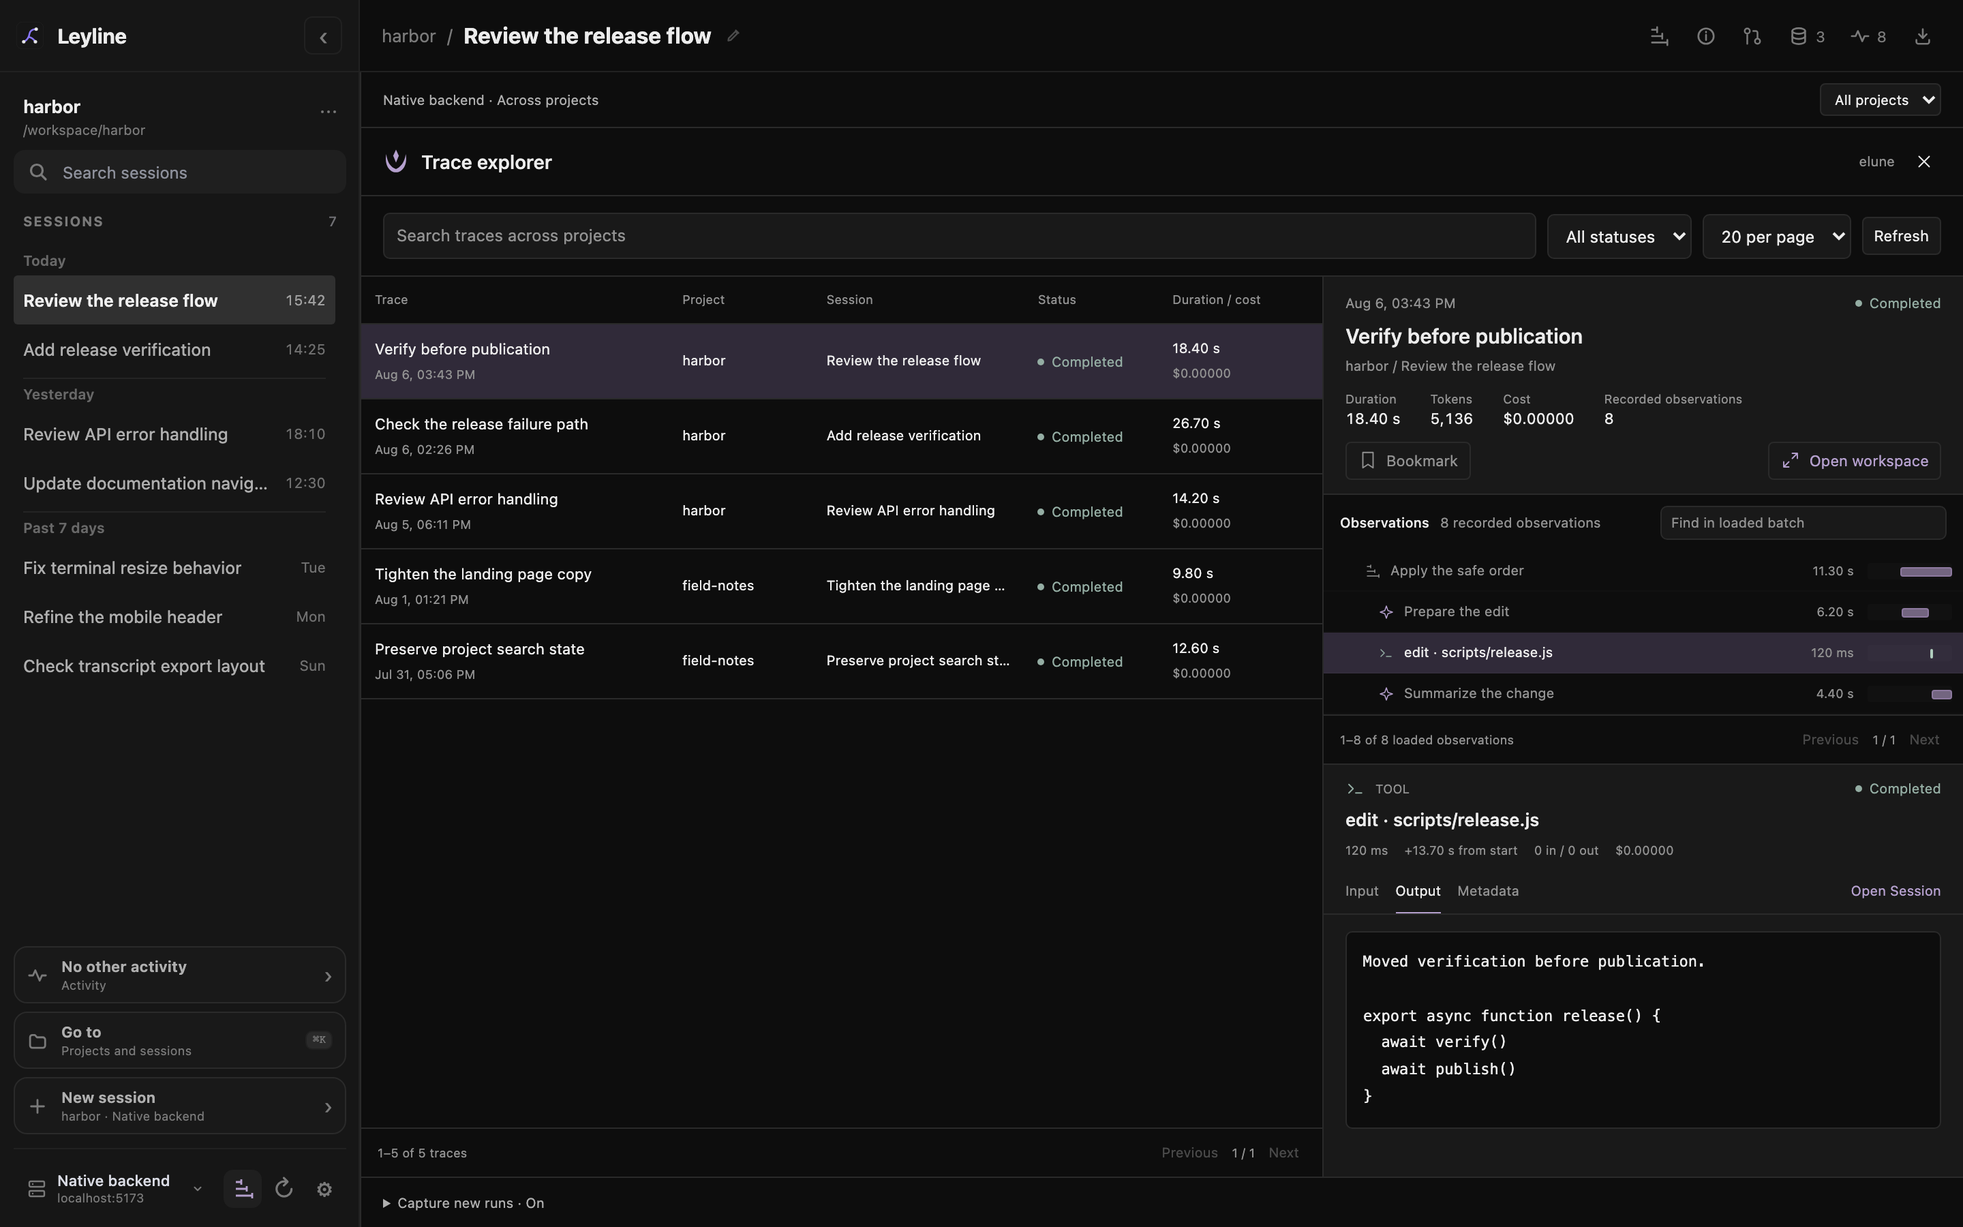
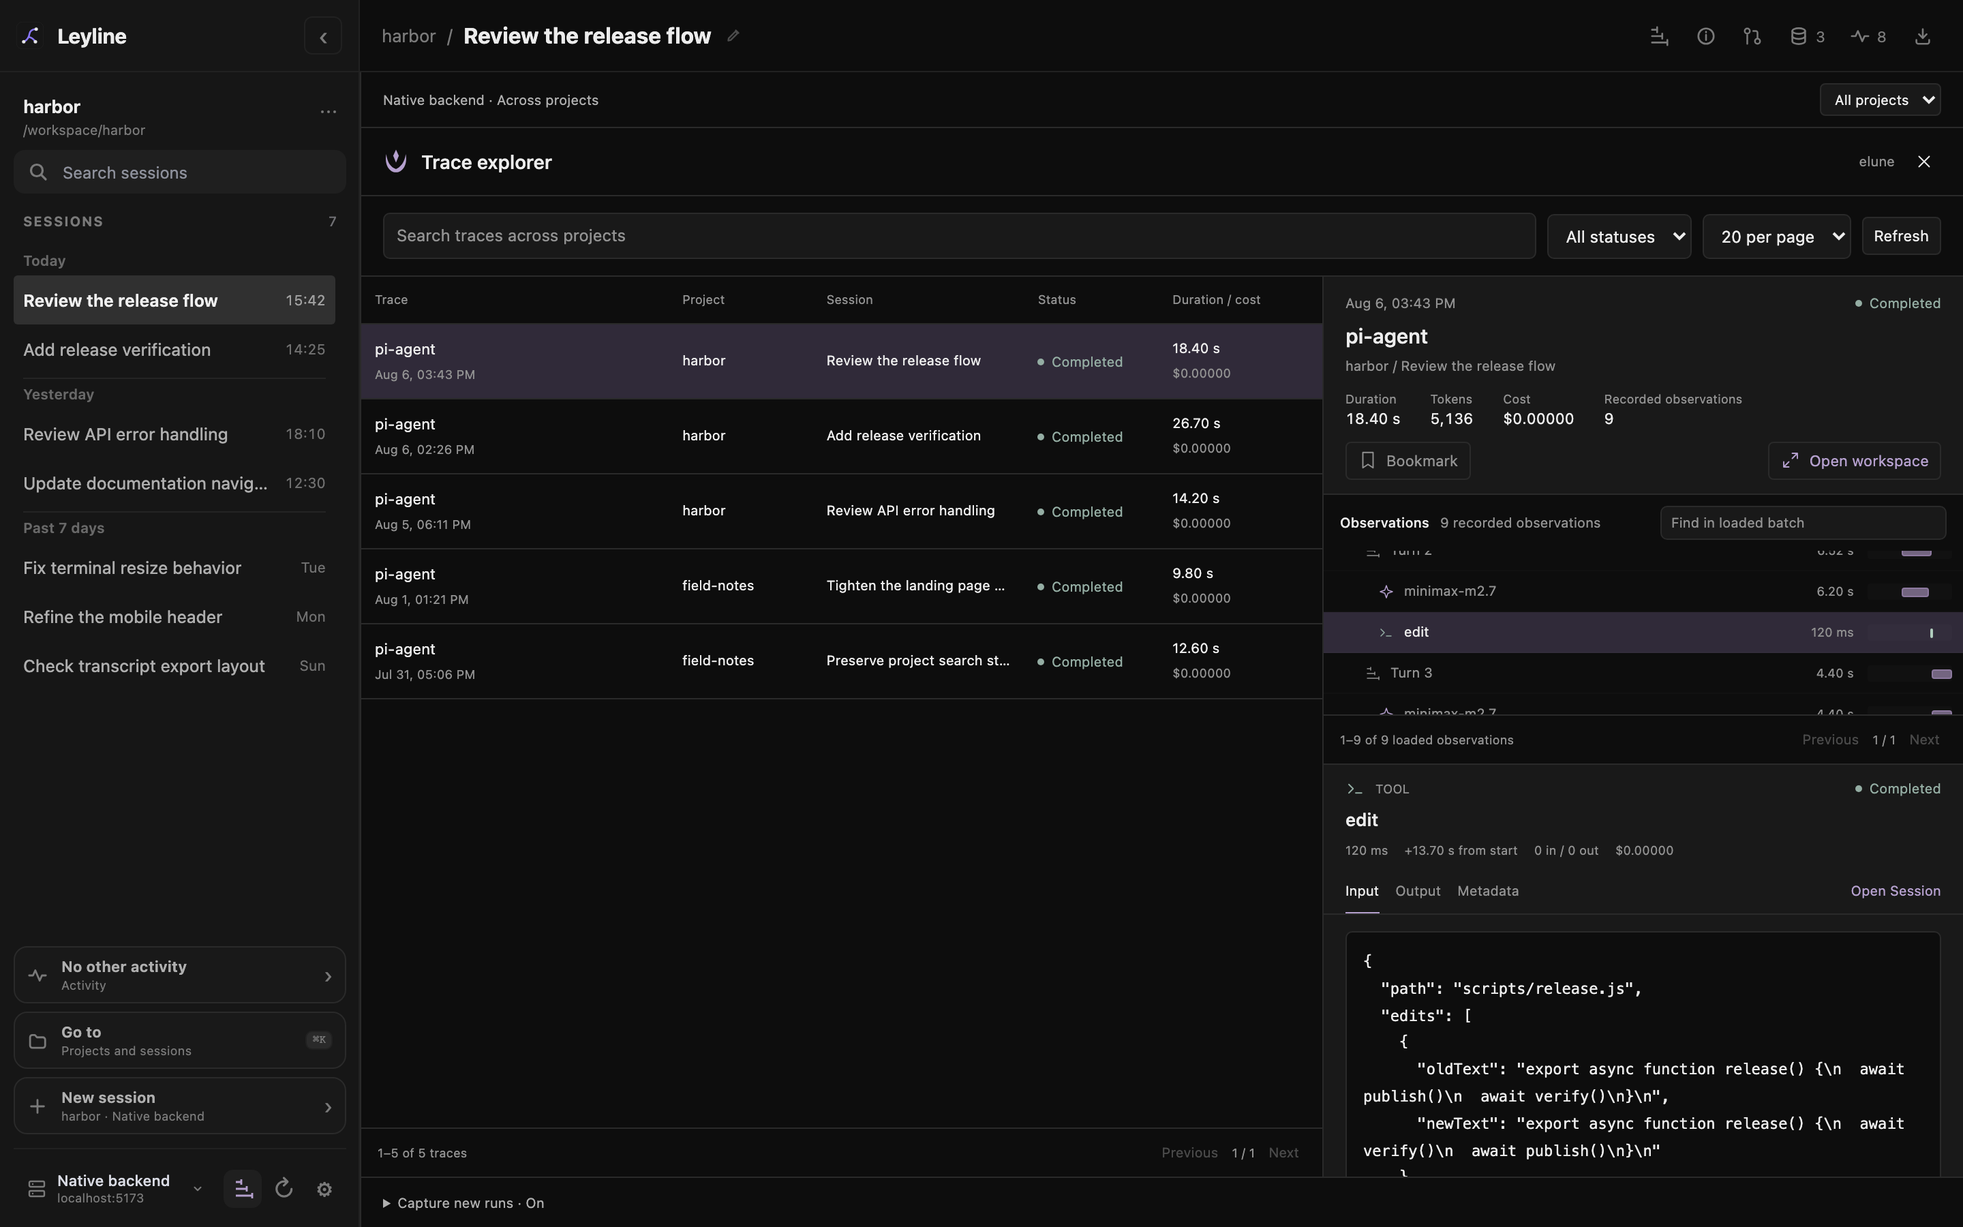
fix: align trace screenshots with elune

diff --git a/scripts/fixtures/docs-traces.js b/scripts/fixtures/docs-traces.js
@@ -1,10 +1,14 @@
+import fs from 'node:fs/promises'
+import os from 'node:os'
+import path from 'node:path'
+import { createReadTool, createEditTool } from '@earendil-works/pi-coding-agent'
+import { createElune } from '@elune/embedded'
+import { createPiTracingExtension } from '@elune/embedded/pi'
+
 export const docsTraceTimeline = {
   timestamp: '2026-08-06T15:43:00.000Z',
-  agent: { startTime: 0, duration: 18.4 },
-  turn1: { startTime: 0, duration: 7.1 },
   model1: { startTime: 0.2, duration: 5.6 },
   read: { startTime: 5.9, duration: 0.18 },
-  turn2: { startTime: 7.1, duration: 11.3 },
   model2: { startTime: 7.3, duration: 6.2 },
   edit: { startTime: 13.7, duration: 0.12 },
   model3: { startTime: 14, duration: 4.4 },
@@ -15,58 +19,146 @@ export function docsTraceEntryTimestamp(key) {
   return new Date(Date.parse(docsTraceTimeline.timestamp) + Math.round((startTime + duration) * 1000)).toISOString()
 }
 
-export function docsTraces(entries, sessions) {
-  const summary = sessions[0]
-  const metadata = {
-    cwd: summary.cwd,
-    sessionName: summary.name,
-    sessionFile: summary.path,
-    userEntryId: 'user-1',
-    startEntryId: 'user-1',
-    endEntryId: 'assistant-2',
-  }
-  const observation = (id, parentId, name, type, timing, input, output, extra = {}) => ({
-    id, parentId, name, type, ...timing, input, output,
-    status: 'completed', level: 'DEFAULT', model: '', inputTokens: 0, outputTokens: 0, cost: 0,
-    metadata: {}, ...extra,
-  })
-  const generation = (id, parentId, name, timing, entry, inputTokens, outputTokens) => observation(
-    id, parentId, name, 'GENERATION', timing, entries[0].text, entry.text,
-    { model: 'local/minimax-m2.7', inputTokens, outputTokens, metadata: { messageEntryId: entry.id, usageKnown: true } },
-  )
-  const observations = [
-    observation('release-agent', null, 'Review the release flow', 'AGENT', docsTraceTimeline.agent, entries[0].text, entries[4].text),
-    observation('release-turn-1', 'release-agent', 'Inspect release order', 'SPAN', docsTraceTimeline.turn1, '', ''),
-    generation('release-model-1', 'release-turn-1', 'Plan the release change', docsTraceTimeline.model1, entries[1], 1240, 184),
-    observation('release-read', 'release-turn-1', 'read · scripts/release.js', 'TOOL', docsTraceTimeline.read, { path: 'scripts/release.js' }, entries[2].text, { metadata: { toolResultEntryId: 'tool-read' } }),
-    observation('release-turn-2', 'release-agent', 'Apply the safe order', 'SPAN', docsTraceTimeline.turn2, '', ''),
-    observation('release-model-2', 'release-turn-2', 'Prepare the edit', 'GENERATION', docsTraceTimeline.model2, entries[2].text, 'Move verify() before publish(), preserving the existing failure path.', { model: 'local/minimax-m2.7', inputTokens: 1612, outputTokens: 142 }),
-    observation('release-edit', 'release-turn-2', 'edit · scripts/release.js', 'TOOL', docsTraceTimeline.edit, { path: 'scripts/release.js', oldText: entries[3].preview.oldText, newText: entries[3].preview.newText }, entries[3].text + '\n\n' + entries[3].preview.newText, { metadata: { toolResultEntryId: 'tool-edit' } }),
-    generation('release-model-3', 'release-turn-2', 'Summarize the change', docsTraceTimeline.model3, entries[4], 1860, 98),
-  ]
-  const primary = {
-    id: 'trace-release-order', sessionId: summary.id, name: 'Verify before publication',
-    timestamp: docsTraceTimeline.timestamp, revision: 12,
-    status: 'completed', level: 'DEFAULT', latency: docsTraceTimeline.agent.duration, inputTokens: 4712, outputTokens: 424,
-    totalTokens: 5136, cost: 0, bookmarked: false, metadata,
-    input: entries[0].text, output: entries[4].text, observations, scores: [],
-  }
-  const additional = [
-    ['trace-release-checks', 'release-checks', 'Check the release failure path', 26.7, 6840],
-    ['trace-api-review', 'api-review', 'Review API error handling', 14.2, 4120],
-    ['trace-landing-copy', 'landing-copy', 'Tighten the landing page copy', 9.8, 2734],
-    ['trace-search-state', 'search-state', 'Preserve project search state', 12.6, 3620],
-  ].map(([id, sessionId, name, latency, totalTokens]) => {
-    const session = sessions.find(item => item.id === sessionId)
-    return {
-      ...primary, id, sessionId, name, latency, totalTokens, revision: 6,
-      timestamp: new Date(Date.parse(session.timestamp) + 60000).toISOString(),
-      inputTokens: Math.floor(totalTokens * 0.85), outputTokens: totalTokens - Math.floor(totalTokens * 0.85),
-      metadata: { cwd: session.cwd, sessionName: session.name, sessionFile: session.path },
-      input: session.name, output: 'Completed the requested focused change.', observations: [],
+export async function docsTraces(entries, sessions) {
+  const directory = await fs.mkdtemp(path.join(os.tmpdir(), 'leyline-docs-traces-'))
+  const store = createElune({ databasePath: path.join(directory, 'elune.db') })
+  const NativeDate = Date
+  let now = Date.parse(docsTraceTimeline.timestamp)
+  class FixtureDate extends NativeDate {
+    constructor(...args) {
+      super(...(args.length ? args : [now]))
     }
-  })
-  return [primary, ...additional]
+    static now() { return now }
+  }
+  const tools = [createReadTool(directory), createEditTool(directory)]
+
+  async function captureRun(session, timestamp, prompt, turns) {
+    const start = NativeDate.parse(timestamp)
+    const branch = [{ id: 'user-1', parentId: null, type: 'message', message: { role: 'user', content: prompt } }]
+    const sessionManager = {
+      getSessionId: () => session.id,
+      getCwd: () => session.cwd,
+      getSessionName: () => session.name,
+      getSessionFile: () => session.path,
+      getLeafId: () => branch.at(-1).id,
+      getEntry: id => branch.find(entry => entry.id === id),
+    }
+    const ctx = { sessionManager, cwd: session.cwd }
+    const handlers = new Map()
+    const capture = createPiTracingExtension({ getStore: () => store })
+    capture({ on: (name, handler) => { handlers.set(name, handler) } })
+    const emit = (type, event = {}) => handlers.get(type)({ type, ...event }, ctx)
+    const at = (timing, end = false) => { now = start + Math.round((timing.startTime + (end ? timing.duration : 0)) * 1000) }
+    const append = (id, message) => branch.push({ id, parentId: branch.at(-1).id, type: 'message', message })
+    const messages = [
+      { role: 'system', content: 'You are a coding assistant. Make focused changes and report the result.' },
+      { role: 'user', content: prompt },
+    ]
+    try {
+      now = start
+      emit('before_agent_start', { prompt })
+      emit('agent_start')
+      const traceId = capture.getActiveTraceId()
+      for (const [turnIndex, turn] of turns.entries()) {
+        at(turn.timing)
+        emit('turn_start', { turnIndex, timestamp: now })
+        emit('context', { messages })
+        capture.observe({ type: 'provider_request', provider: 'local', api: 'openai-completions', model: 'minimax-m2.7' }, ctx)
+        emit('before_provider_request', { payload: {
+          model: 'minimax-m2.7', messages,
+          tools: tools.map(tool => ({ type: 'function', function: { name: tool.name, description: tool.description, parameters: tool.parameters } })),
+        } })
+        const toolCallId = `call-${turnIndex + 1}`
+        const content = [
+          ...(turn.thinking ? [{ type: 'thinking', thinking: turn.thinking }] : []),
+          ...(turn.text ? [{ type: 'text', text: turn.text }] : []),
+          ...(turn.tool ? [{ type: 'toolCall', id: toolCallId, name: turn.tool.name, arguments: turn.tool.args }] : []),
+        ]
+        at(turn.timing, true)
+        const message = {
+          role: 'assistant', content, provider: 'local', api: 'openai-completions', model: 'minimax-m2.7',
+          stopReason: turn.tool ? 'toolUse' : 'stop', timestamp: now,
+          usage: {
+            input: turn.inputTokens, output: turn.outputTokens, cacheRead: turn.cacheRead || 0, cacheWrite: 0,
+            totalTokens: turn.inputTokens + turn.outputTokens + (turn.cacheRead || 0),
+            cost: { input: 0, output: 0, cacheRead: 0, cacheWrite: 0, total: 0 },
+          },
+        }
+        append(turn.entryId, message)
+        emit('message_end', { message })
+        const toolResults = []
+        const toolResultEntryIds = []
+        messages.push({
+          role: 'assistant', content: turn.text || null,
+          ...(turn.tool ? { tool_calls: [{ id: toolCallId, type: 'function', function: { name: turn.tool.name, arguments: JSON.stringify(turn.tool.args) } }] } : {}),
+        })
+        if (turn.tool) {
+          at(turn.tool.timing)
+          emit('tool_execution_start', { toolCallId, toolName: turn.tool.name, args: turn.tool.args })
+          const result = await tools.find(tool => tool.name === turn.tool.name).execute(toolCallId, turn.tool.args)
+          at(turn.tool.timing, true)
+          emit('tool_execution_end', { toolCallId, toolName: turn.tool.name, result, isError: false })
+          const toolResult = { role: 'toolResult', toolCallId, toolName: turn.tool.name, ...result, isError: false, timestamp: now }
+          append(turn.tool.entryId, toolResult)
+          emit('message_end', { message: toolResult })
+          toolResults.push(toolResult)
+          toolResultEntryIds.push(turn.tool.entryId)
+          messages.push({ role: 'tool', tool_call_id: toolCallId, content: result.content.map(block => block.text || '').join('\n') })
+        }
+        emit('turn_end', { turnIndex, message, messageEntryId: turn.entryId, toolResults, toolResultEntryIds, outcome: 'completed' })
+      }
+      emit('agent_before_settle', { outcome: 'completed' })
+      emit('agent_settled')
+      await capture.flush()
+      const trace = await store.get(traceId, { observationLimit: 200, scoreLimit: 200 })
+      const ids = new Map(trace.observations.map((item, index) => [item.id, `${session.id}-observation-${index + 1}`]))
+      return {
+        ...trace, id: `trace-${session.id}`,
+        observations: trace.observations.map(item => ({ ...item, id: ids.get(item.id), parentId: ids.get(item.parentId) || null })),
+      }
+    } finally {
+      await capture.close()
+    }
+  }
+
+  try {
+    await fs.mkdir(path.join(directory, 'scripts'))
+    await fs.writeFile(path.join(directory, 'scripts/release.js'), entries[3].preview.oldText)
+    globalThis.Date = FixtureDate
+    const primary = await captureRun(sessions[0], docsTraceTimeline.timestamp, entries[0].text, [
+      {
+        entryId: entries[1].id, timing: docsTraceTimeline.model1,
+        text: entries[1].text,
+        thinking: entries[1].blocks.find(block => block.type === 'thinking')?.text,
+        inputTokens: 1240, outputTokens: 184,
+        tool: { name: 'read', args: { path: 'scripts/release.js' }, entryId: entries[2].id, timing: docsTraceTimeline.read },
+      },
+      {
+        entryId: 'assistant-edit', timing: docsTraceTimeline.model2, inputTokens: 1100, cacheRead: 512, outputTokens: 142,
+        tool: {
+          name: 'edit', entryId: entries[3].id, timing: docsTraceTimeline.edit,
+          args: { path: 'scripts/release.js', edits: [{ oldText: entries[3].preview.oldText, newText: entries[3].preview.newText }] },
+        },
+      },
+      { entryId: entries[4].id, timing: docsTraceTimeline.model3, text: entries[4].text, inputTokens: 836, cacheRead: 1024, outputTokens: 98 },
+    ])
+    const traces = [primary]
+    for (const [sessionId, duration, inputTokens, outputTokens, output] of [
+      ['release-checks', 26.7, 5800, 1040, 'The release stops if verification fails. Publication runs only after verification succeeds.'],
+      ['api-review', 14.2, 3500, 620, 'The API returns a clear error response and keeps the original failure details in the server log.'],
+      ['landing-copy', 9.8, 2300, 434, 'The revised copy describes the workspace and removes claims that the interface does not support.'],
+      ['search-state', 12.6, 3100, 520, 'The search query stays with its project when the selected project changes.'],
+    ]) {
+      const session = sessions.find(item => item.id === sessionId)
+      traces.push(await captureRun(session, new NativeDate(NativeDate.parse(session.timestamp) + 60000).toISOString(), session.name, [
+        { entryId: 'assistant-1', timing: { startTime: 0, duration }, text: output, inputTokens, outputTokens },
+      ]))
+    }
+    return traces
+  } finally {
+    globalThis.Date = NativeDate
+    try { await store.close() } finally { await fs.rm(directory, { recursive: true, force: true }) }
+  }
 }
 
 export function tracePage(trace, params) {

diff --git a/scripts/docs-screenshots.js b/scripts/docs-screenshots.js
@@ -997,7 +997,10 @@ const visionConfigPayload = (sessionAvailable) => ({
   thinkingSource: sessionAvailable ? 'session' : 'project',
 })
 
-const traceFixtures = docsTraces(baseEntries, sessions)
+const traceFixtures = await docsTraces(baseEntries, sessions)
+const primaryTrace = traceFixtures[0]
+const traceEditObservation = primaryTrace.observations.find(item => item.type === 'TOOL' && item.metadata.toolResultEntryId === 'tool-edit')
+const traceFinalGeneration = primaryTrace.observations.find(item => item.type === 'GENERATION' && item.metadata.messageEntryId === 'assistant-2')
 const traceAssetNames = ['trace-inspector.png', 'trace-workspace.png', 'trace-explorer.png', 'trace-capture.png', 'trace-mobile.png', 'tracing.png']
 const pinnedAssetNames = ['pinned-sessions.png']
 const networkAssetNames = ['network-access.png', 'network-access-mobile.png']
@@ -1054,8 +1057,9 @@ try {
       await page.getByRole('button', { name: 'Trace explorer', exact: true }).click()
       await waitForTrace(page)
       await page.locator('.elune-table tbody tr').nth(4).waitFor()
-      await page.locator('[data-observation-id="release-edit"]').click()
-      await page.locator('.elune-detail-heading h3').filter({ hasText: 'edit · scripts/release.js' }).waitFor()
+      await page.locator(`[data-observation-id="${traceEditObservation.id}"]`).click()
+      await page.locator('.elune-detail-heading h3').filter({ hasText: traceEditObservation.name }).waitFor()
+      await page.locator('.elune-tabs button').filter({ hasText: /^input$/ }).click()
       await page.locator('.elune-table').getByText('field-notes', { exact: true }).first().waitFor()
       if (await page.getByRole('combobox', { name: 'Trace project', exact: true }).inputValue()) throw new Error('Explorer project filter is not clear')
     },
@@ -1068,13 +1072,12 @@ try {
     scenario: 'trace',
     interact: async (page) => {
       await openTraceInspector(page)
-      await page.locator('[data-observation-id="release-model-3"]').click()
-      await page.locator('.elune-detail-heading h3').filter({ hasText: 'Summarize the change' }).waitFor()
+      await page.locator(`[data-observation-id="${traceFinalGeneration.id}"]`).click()
+      await page.locator('.elune-detail-heading h3').filter({ hasText: traceFinalGeneration.name }).waitFor()
+      await page.locator('.elune-tabs button').filter({ hasText: /^output$/ }).click()
       await page.locator('.trace-host-footer summary').click()
       await assertTraceContentReachable(page)
-      await page.locator('.elune-selected').evaluate(element => { element.scrollTop = 0 })
-      await page.locator('.elune-payload-scroll').evaluate(element => { element.scrollTop = 0 })
-      await page.locator('[data-observation-id="release-model-3"]').scrollIntoViewIfNeeded()
+      await page.locator(`[data-observation-id="${traceFinalGeneration.id}"]`).scrollIntoViewIfNeeded()
     },
   })
   await capture({
@@ -1761,10 +1764,11 @@ try {
 console.log('Screenshot capture complete')
 
 async function waitForTrace(page) {
-  await page.locator('.elune-ui[aria-busy="false"] .elune-summary h3').filter({ hasText: 'Verify before publication' }).waitFor()
-  await page.locator('[data-observation-id="release-edit"]').waitFor()
+  await page.locator('.elune-ui[aria-busy="false"] .elune-summary h3').filter({ hasText: primaryTrace.name }).waitFor()
+  await page.locator(`[data-observation-id="${traceEditObservation.id}"]`).waitFor()
   await page.locator('.trace-host-footer summary').filter({ hasText: 'Capture new runs' }).waitFor()
-  await page.locator('.elune-observations > .elune-pagination').getByText('1–8 of 8 loaded observations', { exact: false }).waitFor()
+  const count = primaryTrace.observations.length
+  await page.locator('.elune-observations > .elune-pagination').getByText(`1–${count} of ${count} loaded observations`, { exact: false }).waitFor()
 }
 
 async function openTraceInspector(page) {
@@ -1773,8 +1777,9 @@ async function openTraceInspector(page) {
   }
   await page.getByRole('button', { name: 'Session traces', exact: true }).click()
   await waitForTrace(page)
-  await page.locator('[data-observation-id="release-edit"]').click()
-  await page.locator('.elune-detail-heading h3').filter({ hasText: 'edit · scripts/release.js' }).waitFor()
+  await page.locator(`[data-observation-id="${traceEditObservation.id}"]`).click()
+  await page.locator('.elune-detail-heading h3').filter({ hasText: traceEditObservation.name }).waitFor()
+  await page.locator('.elune-tabs button').filter({ hasText: /^input$/ }).click()
   await page.locator('.elune-payload').filter({ hasText: 'await verify()' }).waitFor()
   const geometry = await page.locator('.elune-run-select').evaluate(element => {
     const select = element.querySelector('select').getBoundingClientRect()
@@ -1789,9 +1794,9 @@ async function openTraceWorkspace(page) {
   await page.getByRole('button', { name: 'Open workspace', exact: true }).click()
   await page.locator('.trace-panel-workspace .elune-ui[aria-busy="false"]').waitFor()
   await page.locator('.elune-timeline .elune-span.tool').first().waitFor()
-  await page.locator('[data-observation-id="release-edit"][aria-pressed="true"]').waitFor()
-  await page.locator('.elune-tabs button[aria-pressed="true"]').filter({ hasText: 'output' }).waitFor()
-  await page.locator('.elune-detail-heading h3').filter({ hasText: 'edit · scripts/release.js' }).waitFor()
+  await page.locator(`[data-observation-id="${traceEditObservation.id}"][aria-pressed="true"]`).waitFor()
+  await page.locator('.elune-tabs button[aria-pressed="true"]').filter({ hasText: 'input' }).waitFor()
+  await page.locator('.elune-detail-heading h3').filter({ hasText: traceEditObservation.name }).waitFor()
   await assertTraceContentReachable(page)
 }
 
@@ -1813,6 +1818,8 @@ async function assertTraceContentReachable(page) {
     return line.top >= port.top && line.bottom <= Math.min(port.bottom, footer.top) && (hit === element || element.contains(hit)) && footer.bottom <= innerHeight
   })
   if (!reachable) throw new Error('Trace payload last line or capture footer is inaccessible')
+  await page.locator('.elune-selected').evaluate(element => { element.scrollTop = 0 })
+  await page.locator('.elune-payload-scroll').evaluate(element => { element.scrollTop = 0 })
 }
 
 async function openSubagentInspector(page, taskCount, exportPage = false) {

diff --git a/docs/user-guide/tracing.md b/docs/user-guide/tracing.md
@@ -31,7 +31,7 @@ Captured manual compaction can appear as a separate `pi-compaction` run. Automat
 
 Select **Open workspace** from the inspector or explorer.
 
-![Tracing workspace with a timeline beside the selected observation output](../assets/screenshots/trace-workspace.png)
+![Tracing workspace with a timeline beside the selected observation details](../assets/screenshots/trace-workspace.png)
 
 *The workspace uses the area after the sidebar for the timeline and details.*
 
